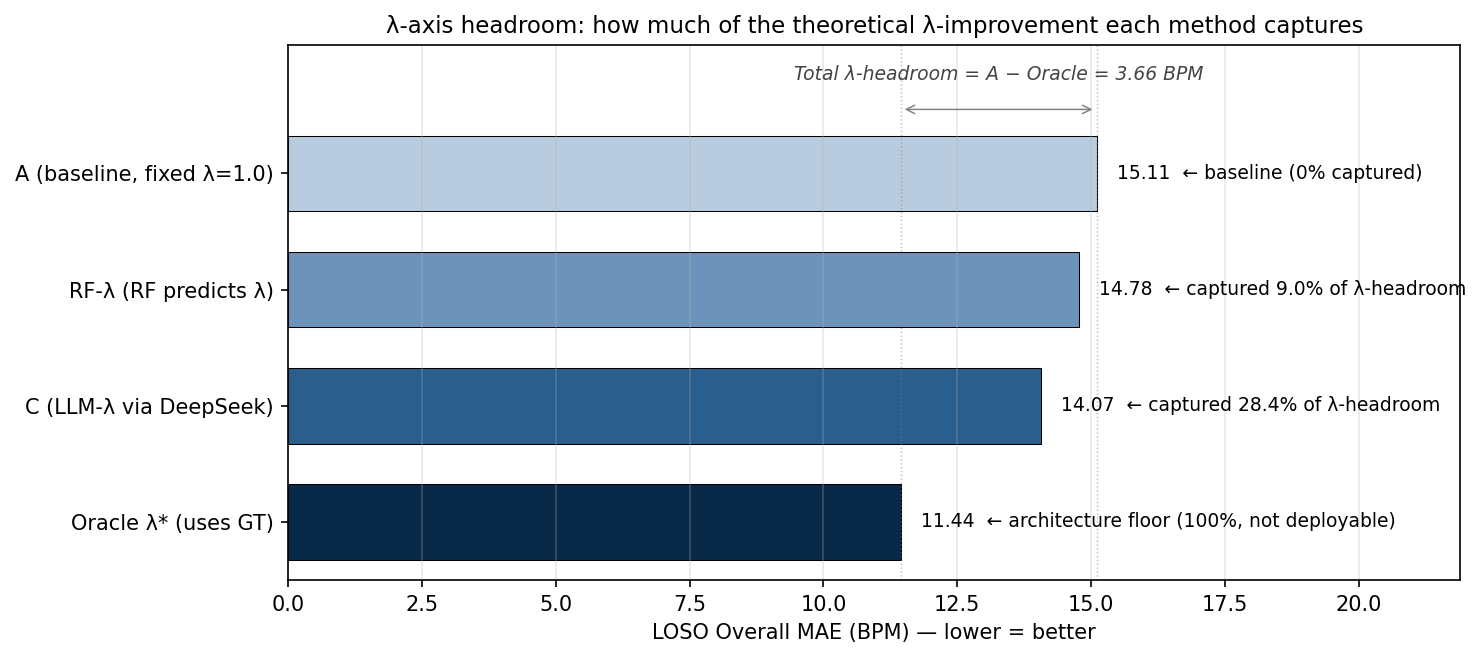
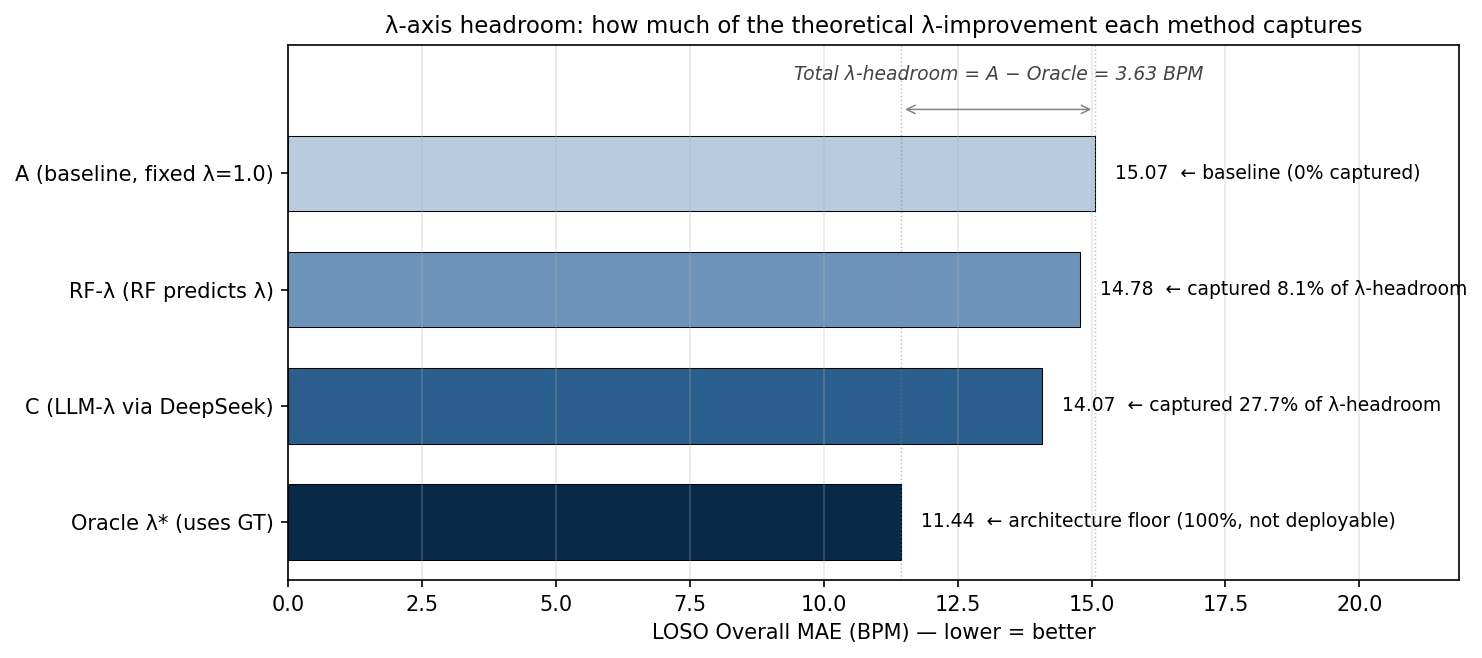
vault backup: 2026-06-05 02:08:50

diff --git a/MyBrain/projects/ece284-llm-ppg/code/troika_lite.py b/MyBrain/projects/ece284-llm-ppg/code/troika_lite.py
@@ -199,12 +199,23 @@ def estimate_hr_one_window(ppg_window, accel_xyz_window, fs=125, lam=1.0,
 # ===================================================================
 # 3. Single-subject driver
 # ===================================================================
-def run_subject(subj_id, type_id="01", lam=1.0):
+def run_subject(subj_id, type_id="01", lam=1.0,
+                max_jump_bpm=None, energy_threshold=None, cold_start_n=None):
     """Run TROIKA-lite over all windows of one subject.
+
+    Args (all optional, fall back to module constants if None):
+        max_jump_bpm:     tracking band 半宽 BPM (默认 MAX_JUMP_BPM 模块常量)
+        energy_threshold: self-correction 阈值 (默认 ENERGY_THRESHOLD 模块常量)
+        cold_start_n:     冷启动窗口数 (默认 COLD_START_N 模块常量)
 
     Returns:
         dict(mae, hr_estimates, hr_truths, n_windows, n_nan)
     """
+    # Resolve params (caller-passed > module-default)
+    _max_jump = MAX_JUMP_BPM if max_jump_bpm is None else max_jump_bpm
+    _energy_thr = ENERGY_THRESHOLD if energy_threshold is None else energy_threshold
+    _cold_n = COLD_START_N if cold_start_n is None else cold_start_n
+
     sig, bpm0 = load_subject(subj_id, type_id)
     W = len(bpm0)
 
@@ -216,16 +227,16 @@ def run_subject(subj_id, type_id="01", lam=1.0):
         if end > sig.shape[1]:
             hr_estimates.append(np.nan)
             continue                     # 越界 → 不更新 prev_hr
-        cold_start_active = (i < COLD_START_N)
+        cold_start_active = (i < _cold_n)
         hr, _ = estimate_hr_one_window(
             sig[1, start:end],          # PPG ch1
             sig[3:6, start:end],        # accel XYZ
             fs=FS,
             lam=lam,                    # 显式传 lam, 不依赖默认值
             prev_hr=prev_hr,            # HR tracking from prev window
-            max_jump_bpm=MAX_JUMP_BPM,  # tracking band 半宽
+            max_jump_bpm=_max_jump,     # tracking band 半宽 (caller-controllable)
             cold_start_active=cold_start_active,
-            energy_threshold=ENERGY_THRESHOLD,
+            energy_threshold=_energy_thr,
         )
         hr_estimates.append(hr)
         if not np.isnan(hr):

diff --git a/MyBrain/projects/ece284-llm-ppg/code/03_troika_loso.py b/MyBrain/projects/ece284-llm-ppg/code/03_troika_loso.py
@@ -59,6 +59,12 @@ SUBJECT_TYPES = [
 MISSING_SUBJECTS = ["09"]
 LAM = 1.0
 
+# 显式 override module-level tracking params 以保持跟 method C / RF-λ / Oracle 一致
+# (method C / 05 / 07 都用 J=15, 这里之前用 module default J=20 → 破坏 controlled comparison)
+MAX_JUMP_BPM_EXPLICIT = 15
+ENERGY_THRESHOLD_EXPLICIT = 0.5
+COLD_START_N_EXPLICIT = 10
+
 
 def to_json_safe(x):
     """numpy scalar / np.nan → native Python (float/int) / None."""
@@ -74,9 +80,11 @@ def to_json_safe(x):
 
 print("=" * 70)
 print("TROIKA-lite LOSO — 11 subjects (Udacity mirror, type per availability)")
-print(f"params: COLD_START_N={COLD_START_N}  "
-      f"ENERGY_THRESHOLD={ENERGY_THRESHOLD}  "
-      f"MAX_JUMP_BPM={MAX_JUMP_BPM}  lam={LAM}")
+print(f"params (EXPLICIT, override module defaults to align with method C / RF-λ / Oracle):")
+print(f"  COLD_START_N={COLD_START_N_EXPLICIT}  "
+      f"ENERGY_THRESHOLD={ENERGY_THRESHOLD_EXPLICIT}  "
+      f"MAX_JUMP_BPM={MAX_JUMP_BPM_EXPLICIT}  lam={LAM}")
+print(f"  (module defaults were: N={COLD_START_N} T={ENERGY_THRESHOLD} J={MAX_JUMP_BPM})")
 print(f"missing_subjects: {MISSING_SUBJECTS}")
 print("=" * 70)
 
@@ -86,7 +94,12 @@ per_subject_mae = []
 
 for subj, type_id in SUBJECT_TYPES:
     t0 = time.perf_counter()
-    res = run_subject(subj, type_id=type_id, lam=LAM)
+    res = run_subject(
+        subj, type_id=type_id, lam=LAM,
+        max_jump_bpm=MAX_JUMP_BPM_EXPLICIT,
+        energy_threshold=ENERGY_THRESHOLD_EXPLICIT,
+        cold_start_n=COLD_START_N_EXPLICIT,
+    )
     t1 = time.perf_counter()
 
     key = f"subj{subj}_type{type_id}"
@@ -115,6 +128,13 @@ result_dict = {
     "overall_mae": overall_mae,
     "n_subjects": len(SUBJECT_TYPES),
     "missing_subjects": MISSING_SUBJECTS,
+    "method": "TROIKA_lite",
+    "params": {
+        "N": COLD_START_N_EXPLICIT,
+        "max_jump_bpm": MAX_JUMP_BPM_EXPLICIT,
+        "energy_threshold": ENERGY_THRESHOLD_EXPLICIT,
+        "lam": LAM,
+    },
     "per_subject": per_subject,
 }
 
